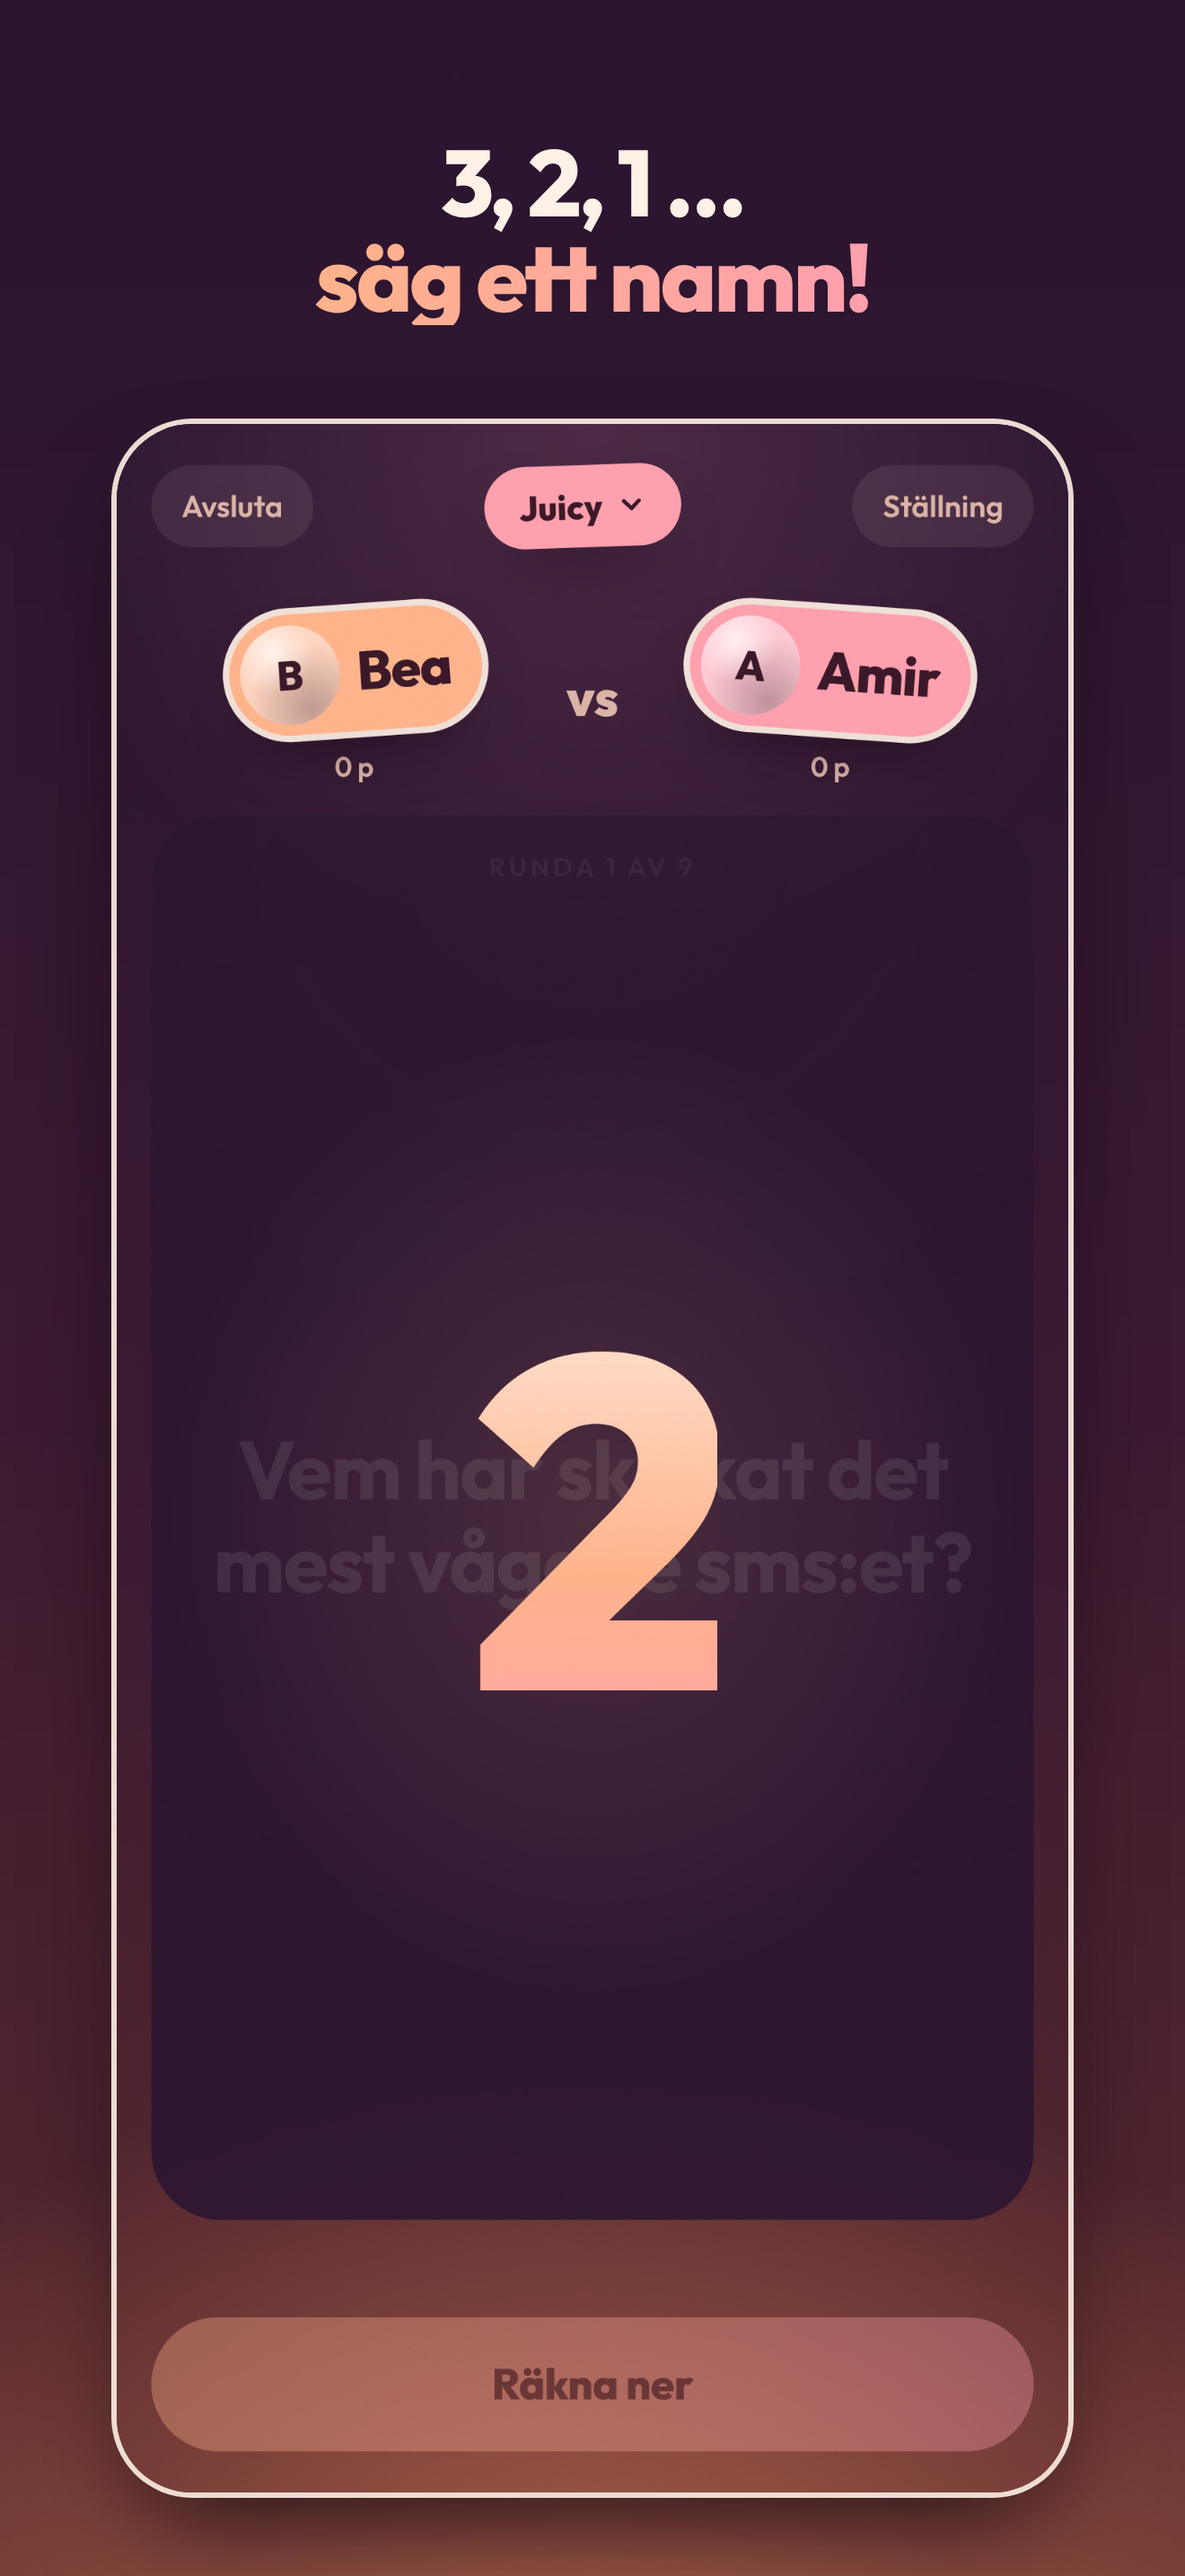
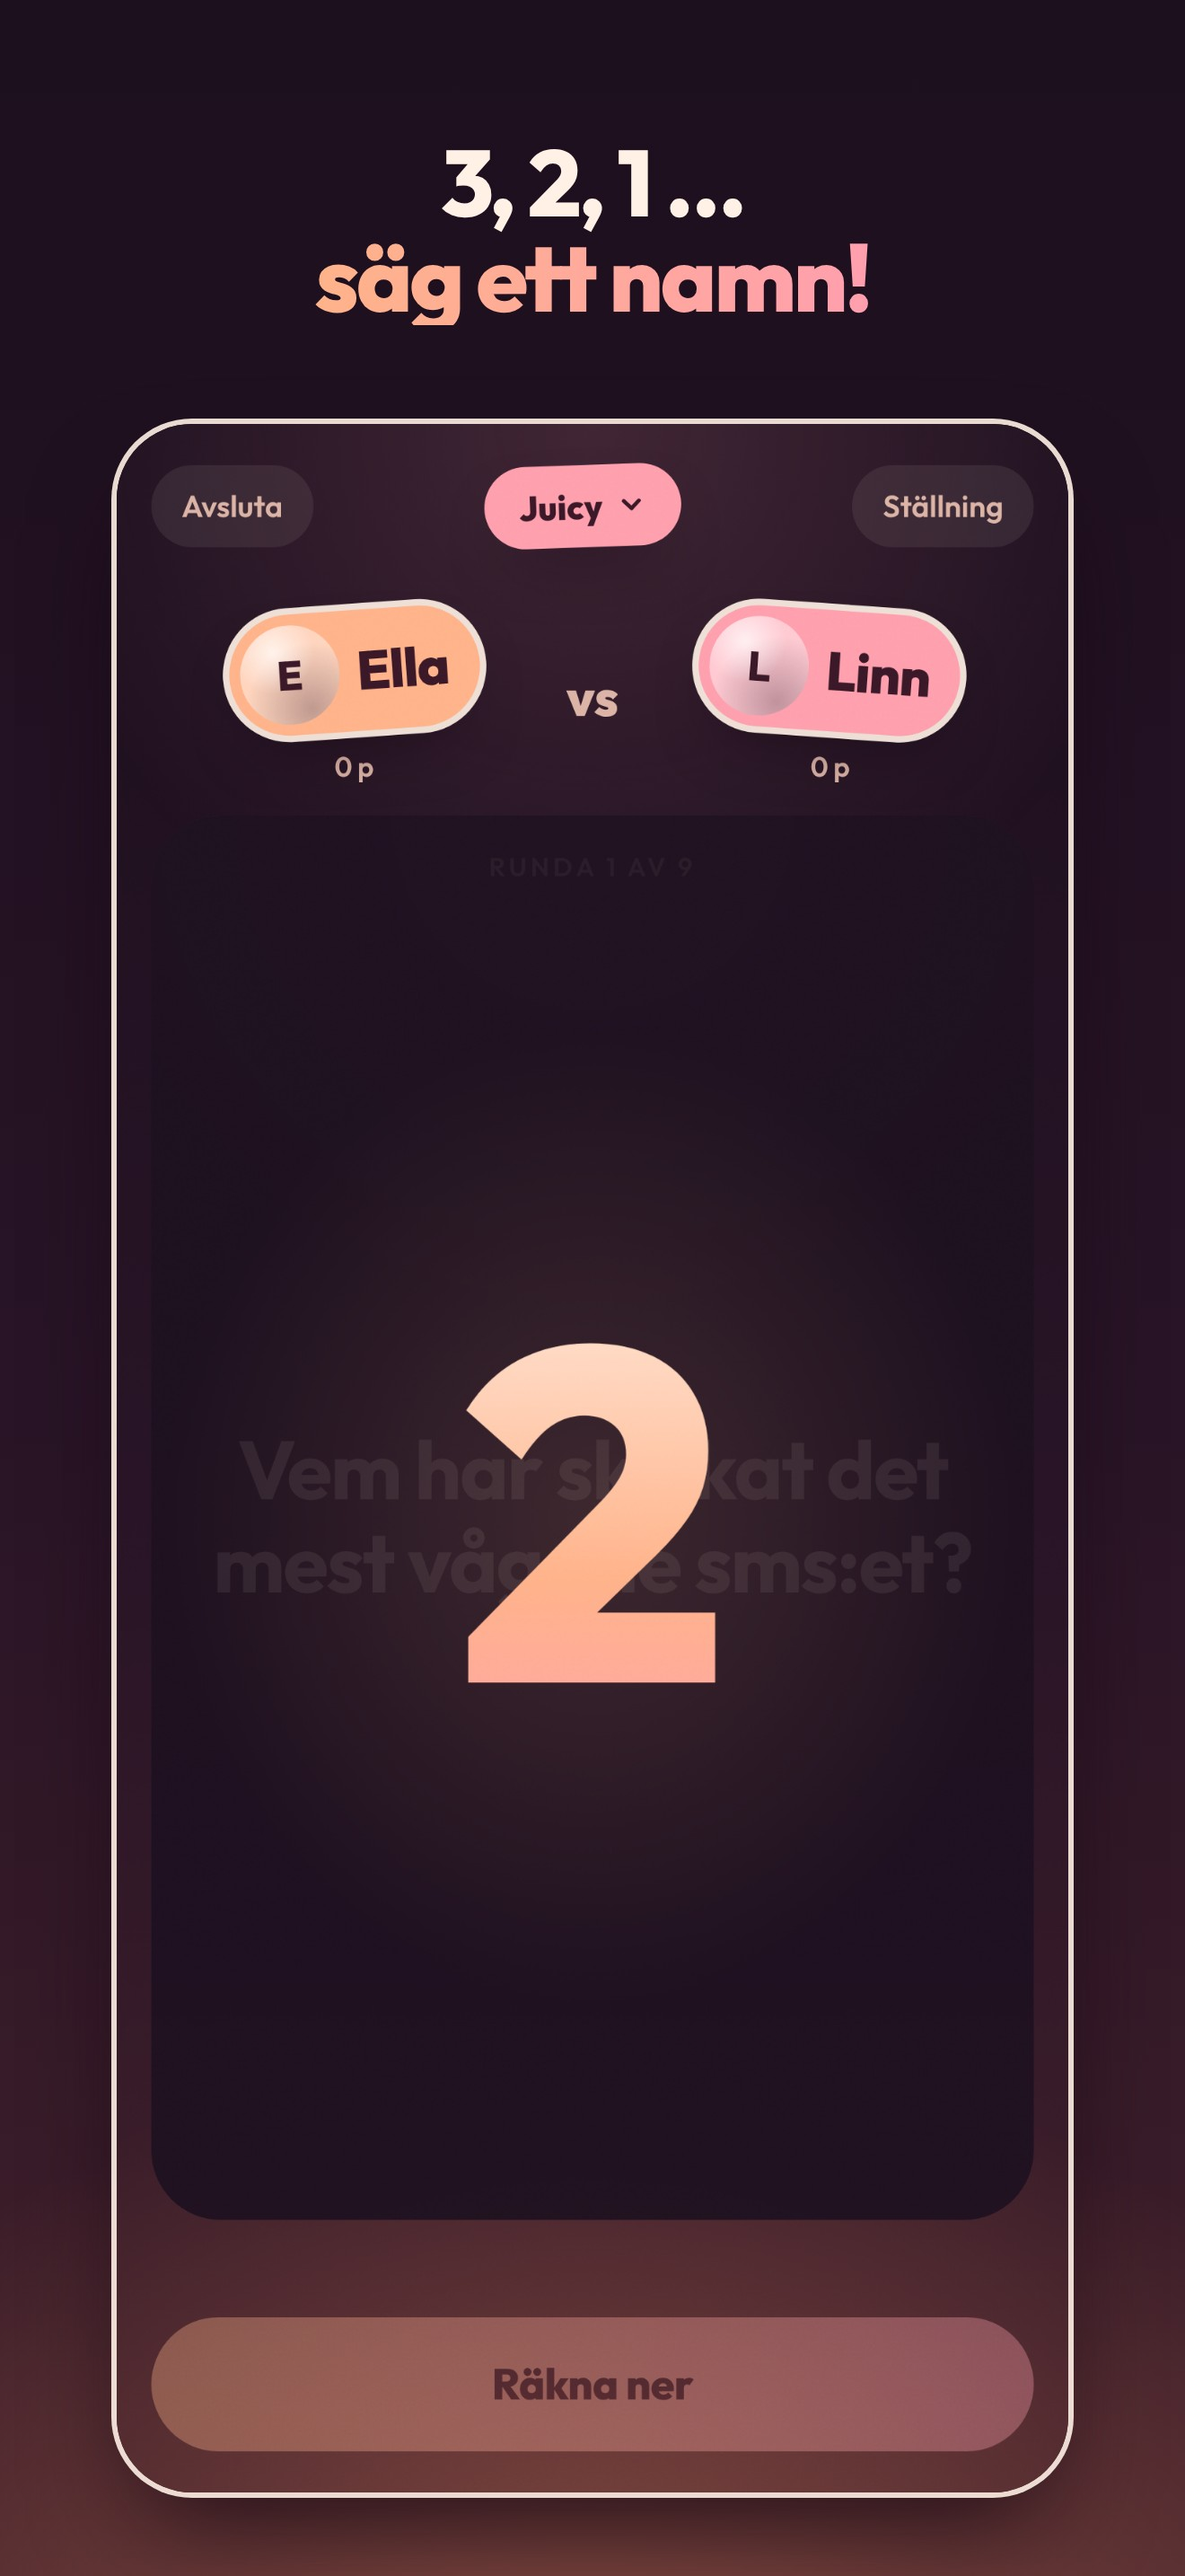
Darker background, "Fler spel från oss" menu, trim FAQ
- Mute and darken the background gradient and soften the ember glow
  for more contrast; sheet and countdown overlay follow the new tone.
- Add a "Fler spel från oss" menu row that opens a sheet linking to
  ACT RUSH and Tune Trivia on the App Store.
- Let menu rows shrink a little on short screens so the longer menu
  still fits without scrolling on the smallest iPhones.
- Remove the "Kommer samma fråga tillbaka?" FAQ entry.
- Regenerate App Store screenshots with the new background.

Claude-Session: https://claude.ai/code/session_0186nTj2r7e1PSfHvLZLoir9

diff --git a/app/index.html b/app/index.html
@@ -5,7 +5,7 @@
 <meta name="viewport" content="width=device-width, initial-scale=1, viewport-fit=cover, user-scalable=no">
 <title>Synk</title>
 <meta name="claude:viewport-fit-sides" content="cover">
-<meta name="theme-color" content="#2a1430">
+<meta name="theme-color" content="#1c0f1e">
 <link rel="icon" href="icon.svg" type="image/svg+xml">
 <link rel="apple-touch-icon" href="icon-180.png">
 <style>
@@ -17,9 +17,9 @@
    Layout: en skärm i taget, alltid 100 % höjd och aldrig scroll. Allt krymper med skärmhöjden. */
 :root {
   color-scheme: dark;
-  --bg-top: #2a1430;
-  --bg-mid: #3b1a31;
-  --bg-bot: #5a2a2c;
+  --bg-top: #1c0f1e;
+  --bg-mid: #281426;
+  --bg-bot: #42202a;
   --ember: #ff9b6b;
   --surface: rgba(255, 241, 230, 0.08);
   --surface-2: rgba(255, 241, 230, 0.13);
@@ -50,7 +50,7 @@ html { padding-top: env(safe-area-inset-top, 0px); padding-bottom: env(safe-area
 body {
   overflow: hidden;
   background:
-    radial-gradient(120% 45% at 50% 108%, color-mix(in srgb, var(--ember) 45%, transparent) 0%, transparent 70%),
+    radial-gradient(120% 45% at 50% 108%, color-mix(in srgb, var(--ember) 32%, transparent) 0%, transparent 70%),
     linear-gradient(180deg, var(--bg-top) 0%, var(--bg-mid) 55%, var(--bg-bot) 100%);
   background-attachment: fixed;
   color: var(--ink);
@@ -314,7 +314,7 @@ svg { display: block; }
   display: grid; place-items: center;
   font-weight: 800;
   font-size: clamp(120px, 26vh, 230px);
-  background: radial-gradient(70% 50% at 50% 50%, rgba(255, 179, 138, .14), transparent 70%), rgba(42, 20, 48, .9);
+  background: radial-gradient(70% 50% at 50% 50%, rgba(255, 179, 138, .14), transparent 70%), rgba(28, 15, 30, .92);
 }
 /* background-clip: text målar bara inom spanets ruta, så rutan måste rymma hela glyfen */
 .count span { display: inline-block; line-height: 1.15; padding: 0.06em 0.14em 0.1em; background: linear-gradient(180deg, #fff1e6, var(--apricot) 60%, var(--rose)); -webkit-background-clip: text; background-clip: text; color: transparent; }
@@ -370,7 +370,7 @@ svg { display: block; }
 .sheet {
   position: fixed; left: 0; right: 0; bottom: 0; z-index: 21;
   max-width: 480px; margin: 0 auto;
-  background: linear-gradient(180deg, #4a2134, var(--bg-top) 55%);
+  background: linear-gradient(180deg, #391a2b, var(--bg-top) 55%);
   border-radius: 32px 32px 0 0;
   padding: 24px max(20px, env(safe-area-inset-right, 0px)) calc(20px + env(safe-area-inset-bottom, 0px)) max(20px, env(safe-area-inset-left, 0px));
   display: flex; flex-direction: column; gap: 14px;
@@ -401,10 +401,17 @@ svg { display: block; }
 .sound-btn[aria-pressed="true"] { color: var(--apricot); }
 /* ---------- Meny ---------- */
 .menu-list { display: grid; gap: 6px; }
-.menu-row { display: flex; align-items: center; justify-content: space-between; gap: 12px; min-height: 54px; padding: 0 18px; border-radius: 18px; background: var(--surface); font-weight: 600; font-size: 16px; text-align: left; width: 100%; }
+.menu-row { display: flex; align-items: center; justify-content: space-between; gap: 12px; min-height: clamp(46px, 7.4vh, 54px); padding: 0 18px; border-radius: 18px; background: var(--surface); font-weight: 600; font-size: 16px; text-align: left; width: 100%; }
 .menu-row:active { background: var(--surface-2); }
 .menu-row .val { color: var(--muted); font-weight: 600; font-size: 14px; display: flex; align-items: center; gap: 6px; }
 .menu-foot { text-align: center; color: var(--muted); font-size: 12px; margin-top: 2px; }
+.game-row { display: grid; grid-template-columns: 52px 1fr auto; align-items: center; gap: 14px; padding: 12px 18px 12px 12px; border-radius: 20px; background: var(--surface); color: inherit; text-decoration: none; }
+.game-row:active { background: var(--surface-2); }
+.game-row > svg { color: var(--muted); }
+.game-ico { width: 52px; height: 52px; border-radius: 15px; display: grid; place-items: center; color: var(--plum); box-shadow: var(--lift); }
+.game-txt { display: grid; gap: 2px; min-width: 0; }
+.game-txt b { font-weight: 700; font-size: 17px; letter-spacing: -0.01em; }
+.game-txt small { color: var(--muted); font-weight: 500; font-size: 14px; }
 .sheet .back { align-self: flex-start; height: 34px; padding: 0 12px 0 8px; border-radius: 999px; background: var(--surface); color: var(--muted); font-weight: 600; font-size: 14px; display: flex; align-items: center; gap: 4px; margin-bottom: -4px; }
 .rules { margin: 0; padding: 0; list-style: none; display: grid; gap: 10px; counter-reset: r; }
 .rules li { display: grid; grid-template-columns: 30px 1fr; gap: 10px; align-items: start; color: var(--ink); font-weight: 500; line-height: 1.4; font-size: 15px; }
@@ -1377,6 +1384,12 @@ svg { display: block; }
   var CONTACT_EMAIL = "support@coalbun.com";
   var WEBSITE = "coalbun.com";
   var APP_VERSION = "1.0";
+  var GAMES = [
+    { name: "ACT RUSH", sub: "500 frågor & charader", url: "https://apps.apple.com/se/app/act-rush-partyspel-charader/id6790179657", tile: "linear-gradient(135deg, var(--apricot), var(--rose))",
+      icon: '<svg width="24" height="24" viewBox="0 0 24 24" fill="none" stroke="currentColor" stroke-width="2.4" stroke-linecap="round" stroke-linejoin="round"><circle cx="12" cy="14" r="7"/><path d="M12 14v-3.5M10 3h4M18.5 7.5L20 6"/></svg>' },
+    { name: "Tune Trivia", sub: "Musikquiz med vänner", url: "https://apps.apple.com/se/app/tune-trivia-musikquiz/id6770267505", tile: "linear-gradient(135deg, var(--lilac), var(--rose))",
+      icon: '<svg width="24" height="24" viewBox="0 0 24 24" fill="none" stroke="currentColor" stroke-width="2.4" stroke-linecap="round" stroke-linejoin="round"><path d="M9 18V5l11-2v13"/><circle cx="6" cy="18" r="3" fill="currentColor"/><circle cx="17" cy="16" r="3" fill="currentColor"/></svg>' }
+  ];
   var CHEV = '<svg width="16" height="16" viewBox="0 0 24 24" fill="none" stroke="currentColor" stroke-width="2.4" stroke-linecap="round" stroke-linejoin="round"><path d="M9 6l6 6-6 6"/></svg>';
   var BACK = '<button class="back" data-back><svg width="16" height="16" viewBox="0 0 24 24" fill="none" stroke="currentColor" stroke-width="2.4" stroke-linecap="round" stroke-linejoin="round"><path d="M15 6l-6 6 6 6"/></svg>Meny</button>';
   function wireBack() { var b = $("layer").querySelector("[data-back]"); if (b) b.onclick = openMenu; }
@@ -1385,6 +1398,7 @@ svg { display: block; }
     sheet("<h2>Meny</h2><div class=\"menu-list\">" +
       '<button class="menu-row" data-go="rules">Så spelar ni' + CHEV + "</button>" +
       '<button class="menu-row" data-go="faq">Vanliga frågor' + CHEV + "</button>" +
+      '<button class="menu-row" data-go="games">Fler spel från oss' + CHEV + "</button>" +
       '<button class="menu-row" data-go="policy">Integritetspolicy' + CHEV + "</button>" +
       '<button class="menu-row" id="menu-sound">Ljud<span class="val">' + (Sound.isOn() ? "På" : "Av") + "</span></button>" +
       (state.unlocked ? "" : '<button class="menu-row" id="menu-restore">Återställ köp<span class="val">' + ICON.lock + "</span></button>") +
@@ -1392,7 +1406,7 @@ svg { display: block; }
       '<a class="menu-row" href="https://' + WEBSITE + '" target="_blank" rel="noopener" style="text-decoration:none;color:inherit">Webbplats<span class="val">' + esc(WEBSITE) + CHEV + "</span></a>" +
       '</div><p class="menu-foot">Synk ' + APP_VERSION + " · Coalbun Studios</p>");
     $("layer").querySelectorAll("[data-go]").forEach(function (b) {
-      b.onclick = function () { ({ rules: openRules, faq: openFaq, policy: openPolicy })[b.dataset.go](); };
+      b.onclick = function () { ({ rules: openRules, faq: openFaq, games: openGames, policy: openPolicy })[b.dataset.go](); };
     });
     $("menu-sound").onclick = function () { var v = Sound.toggle(); this.querySelector(".val").textContent = v ? "På" : "Av"; renderSound(); };
     if ($("menu-restore")) $("menu-restore").onclick = function () { restorePurchase(this); };
@@ -1410,11 +1424,18 @@ svg { display: block; }
     wireBack();
   }
 
+  function openGames() {
+    sheet(BACK + "<h2>Fler spel från oss</h2><div class=\"menu-list\">" + GAMES.map(function (g) {
+      return '<a class="game-row" href="' + g.url + '" target="_blank" rel="noopener"><span class="game-ico" style="background:' + g.tile + '">' + g.icon + '</span>' +
+        '<span class="game-txt"><b>' + esc(g.name) + "</b><small>" + esc(g.sub) + "</small></span>" + CHEV + "</a>";
+    }).join("") + '</div><p class="menu-foot">Öppnas i App Store</p>');
+    wireBack();
+  }
+
   function openFaq() {
     var qa = [
       ["Kostar det något?", "Warm up med 100 frågor är gratis. Juicy och Crazy låser du upp tillsammans med ett enda köp. Det finns ingen prenumeration."],
       ["Jag har köpt, men nivåerna är låsta", "Öppna menyn och tryck på Återställ köp. Du måste vara inloggad med samma Apple-ID som när du köpte."],
-      ["Kommer samma fråga tillbaka?", "Inte förrän ni har spelat alla frågor på nivån. Sedan blandas de om, och samma fråga dyker inte upp igen inom 50 frågor."],
       ["Hur lång tid tar ett spel?", "7 till 10 rundor, ungefär tio minuter. Alla spelar lika många gånger."],
       ["Var sparas namn och bilder?", "Bara på din telefon. Inget skickas till oss eller någon annan."]
     ];
